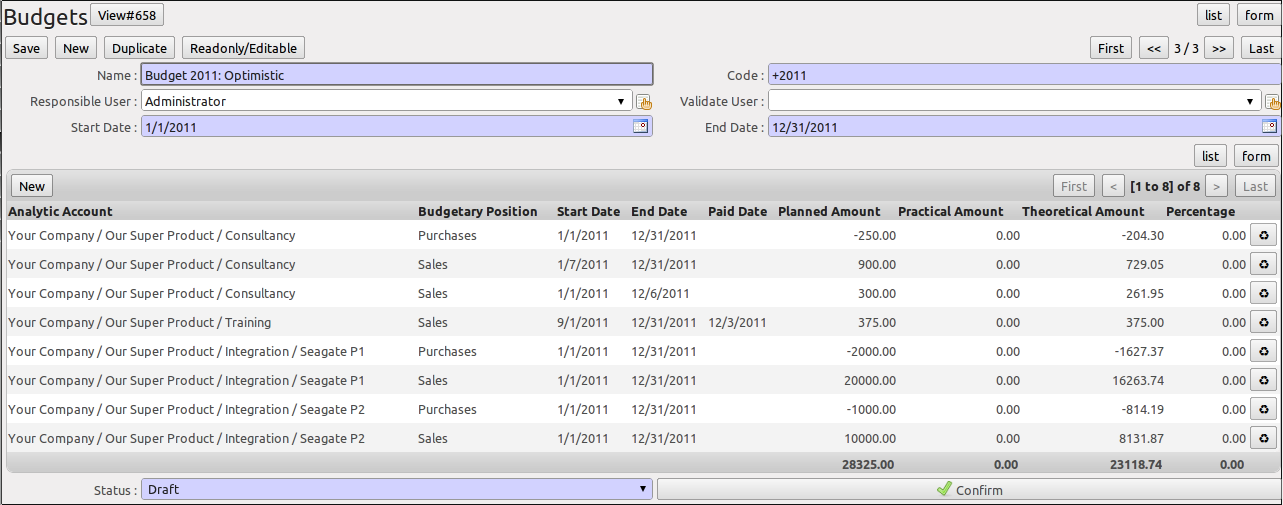
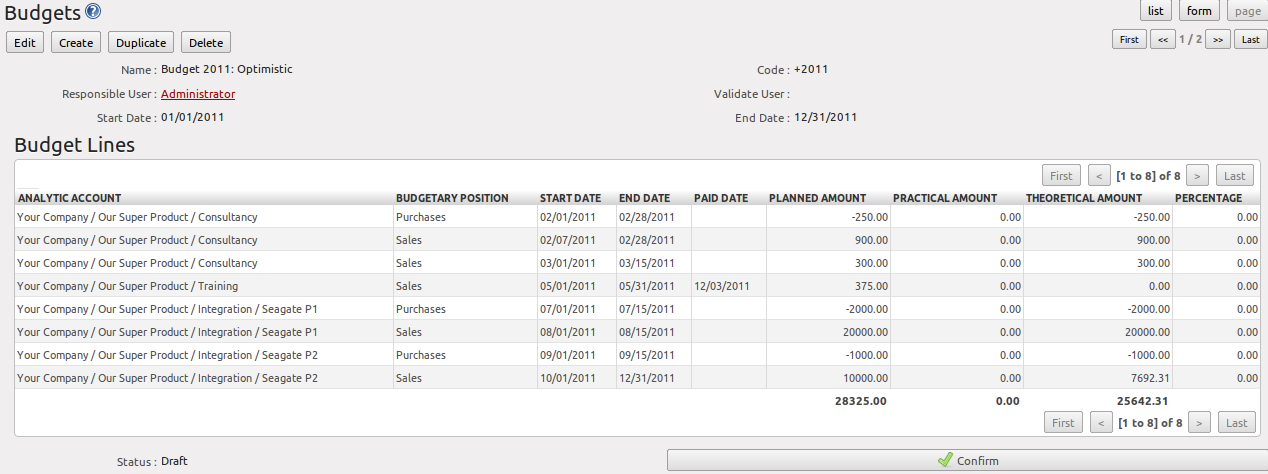
reviewed budgets and added new images

diff --git a/3/3_8/company_financial_analysis.rst b/3/3_8/company_financial_analysis.rst
@@ -8,10 +8,10 @@ Good Management Budgeting
 Budgets are important for a company to get a good grip on forecasted expenses and revenues. They allow you to measure your actual financial performance against the planned one.
 
 OpenERP manages its budgets using both General and Analytic Accounts.
-Go to :menuselection:`Administration --> Modules --> Modules` and install :mod:`account_budget` to be able to do this.
+Go to :menuselection:`Settings --> Modules --> Modules` and install :mod:`account_budget` to be able to do this.
 
-The first step in defining budgets is to determine the general accounts for which you want to keep budgets (i.e. expense or income accounts).
-You can use ``Budgetary Positions`` for this from the menu :menuselection:`Accounting --> Configuration --> Budgets --> Budgetary Positions`. Here you can select the general accounts for which you want to keep budgets. The aim is to group general accounts logically, according to sales or purchases, for instance. OpenERP has no limitations as to the account types that can be used for budgeting.
+The first step in defining budgets is to determine the general accounts for which you want to keep budgets (typically expense or income accounts).
+That is what you will use ``Budgetary Positions`` for, from the menu :menuselection:`Accounting --> Configuration --> Budgets --> Budgetary Positions`. Here you can select the general accounts for which you want to keep budgets. The aim is to group general accounts logically, according to sales or purchases, for instance. OpenERP has no limitations as to the account types that can be used for budgeting.
 
 .. figure::  images/account_budget_pos.png
    :scale: 75
@@ -36,7 +36,7 @@ To define your budgets, go to the menu :menuselection:`Accounting --> Budgets --
 
     Rather than edit an existing budget, make a new version so that you can keep your original estimates safe for comparison. This lets you analyse your changing perspectives of the company from revision to revision.
 
-To define your budgets, start by entering a :guilabel:`Name`, a :guilabel:`Code`, a :guilabel:`Start Date` and an :guilabel:`End Date` for your new budget. Then you can define the budgeted amounts within that period, one by one (enter negative amounts for purchases, positive amounts for sales). For each, you define:
+To define your budgets, start by entering a :guilabel:`Name`, a :guilabel:`Code`, a :guilabel:`Start Date` and an :guilabel:`End Date` for your new budget. Then you can define the budgeted amounts for each analytic account within a specified period, one by one (enter negative amounts for purchases, positive amounts for sales). For each, you define:
 
 * an :guilabel:`Analytic Account`
 
@@ -50,25 +50,25 @@ Once this information is completed, save your budget.
 
 A budget has various stages:
 
-* Confirmed: the budget is to be reviewed, but it can still be changed before actual approval;
+* *Confirmed*: the budget is to be reviewed, but it can still be changed before actual approval;
 
-* Approved: the budget is approved by the budget holder; the name of the user approving the budget will be displayed in the ``Validate User`` field.
+* *Approved*: the budget is approved by the budget holder; the name of the user approving the budget will be displayed in the ``Validate User`` field.
 
 You can cancel a budget and reset it to draft for the two preceding steps.
 
-* Done: the budget is fully approved and no changes will be allowed. You can no longer cancel the budget and reset it to draft.
+* *Done*: the budget is fully approved and no changes will be allowed. You can no longer cancel the budget and reset it to draft.
 
-The Theoretical amount indicates the actual amount that could have been realised for the budget concerned according to the current date. When your budget is 1200 for 12 months, and today is the 30 October, the theoretical amount will be 1000, since this is the actual amount that could have been realised to date.
+The :guilabel:`Theoretical Amount` indicates the actual amount that might have been realised for the budget concerned according to the current date. When your budget is 1200 for 12 months, and today is the 30 October, the theoretical amount will be 1000, since this is the actual amount that could have been realised to date.
 
 To print a budget and make calculations of expenditure through budget, use the menu :menuselection:`Accounting --> Budgets --> Budgets`. OpenERP then gives you a list of available budgets. Select one or more budgets and then click :guilabel:`Print Budgets` to create the report for each, in a date range of your choice.
 
-The ``Print Budget`` report gives an overview of each analytic account included in your budget, according to the individual budgetary positions for that account.
+The ``Print Budget`` report gives an overview of each analytic account included in your budget, according to the individual budgetary positions for that account. From the percentage and the comparison of planned (budgeted) and practical (actual) amounts, you have a good view on your situation.
 
 From the same list of actions, you can also print the ``Print Summary`` report, which will give you a total per analytic account (without splitting by budgetary position).
 
-Each of these reports can be printed from a specific date to a specific date. The End Date selected in the wizard determines the theoretical amount; if you select the last day of your financial year, the theoretical amount will be calculated as a function of that date (thus considering a complete financial year).
+Each of these reports can be printed from a specific date to a specific date. The End Date selected in the wizard determines how the theoretical amount will be calculated; if you select the last day of your financial year, the theoretical amount will be calculated as a function of that date (thus considering a complete financial year). Note that the theoretical amount will be zero when the :guilabel:`Paid Date` entered is equal to or greater than the :guilabel:`End Date` for the budget.
 
-The percentage for a budget is calculated as follows: (amount realised / theoretical amount) x 100
+The percentage for a budget is calculated as follows: (practical amount / theoretical amount) x 100.
 This way you get a view on how much of the forecasted amount has been actually realised in your accounting.
 
 The figure :ref:`fig-accbudg` gives an example of a budget produced by OpenERP.
@@ -81,10 +81,24 @@ The figure :ref:`fig-accbudg` gives an example of a budget produced by OpenERP.
 
    *Printing a Budget*
 
-You could also use the menu :menuselection:`Accounting --> Reporting --> Generic Reporting --> Budgets --> Budget Lines`.
-This gives a graphic budgetary analysis for each budget line.
+.. figure::  images/account_budget_summ.png
+   :scale: 75
+   :align: center
 
-From the menu :menuselection:`Accounting --> Configuration --> Budgets --> Budgetary Positions`, you can print the budgets for an individual budgetary position.
+   *Summarised Budget*
+
+
+You could also use the menu :menuselection:`Accounting --> Reporting --> Generic Reporting --> Budgets --> Budget Lines`.
+This gives an analysis of each budget line.
+
+From the menu :menuselection:`Accounting --> Configuration --> Budgets --> Budgetary Positions`, you can print the budgets for an individual budgetary position. Open a budgetary position, and click the :guilabel:`Budget Lines` tab for a graphical representation of your budgetary position.
+
+.. figure::  images/account_budget_graph.png
+   :scale: 75
+   :align: center
+
+   *Graphical Representation of Budgetary Position*
+
 
 The Accounting Dashboard
 ------------------------
